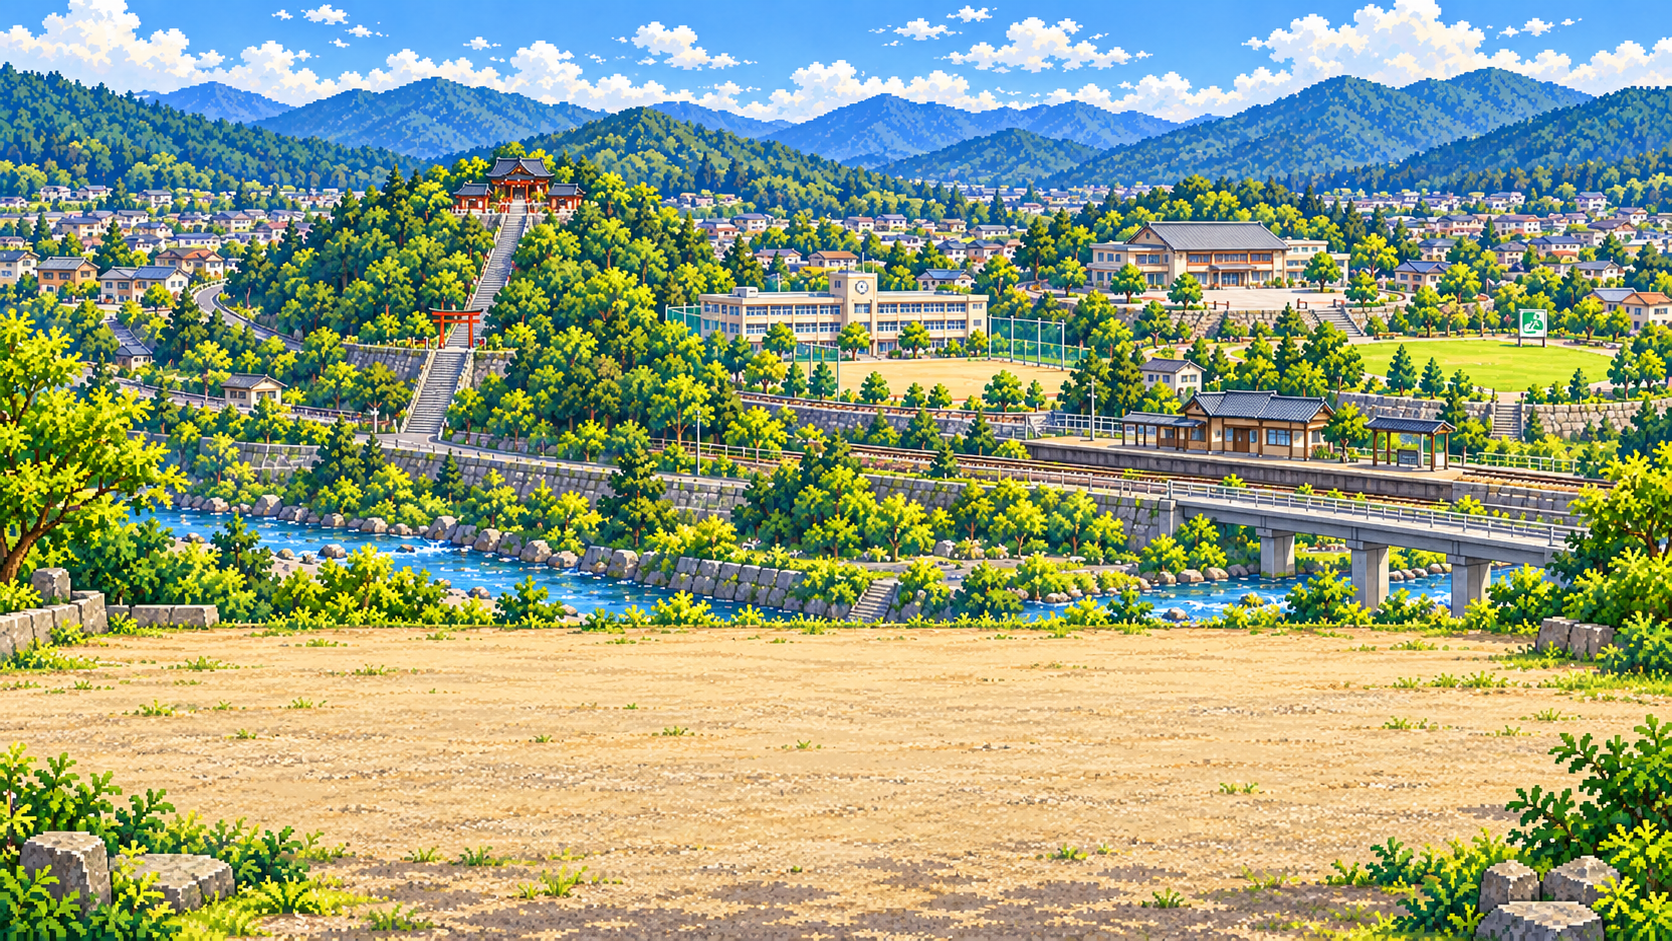
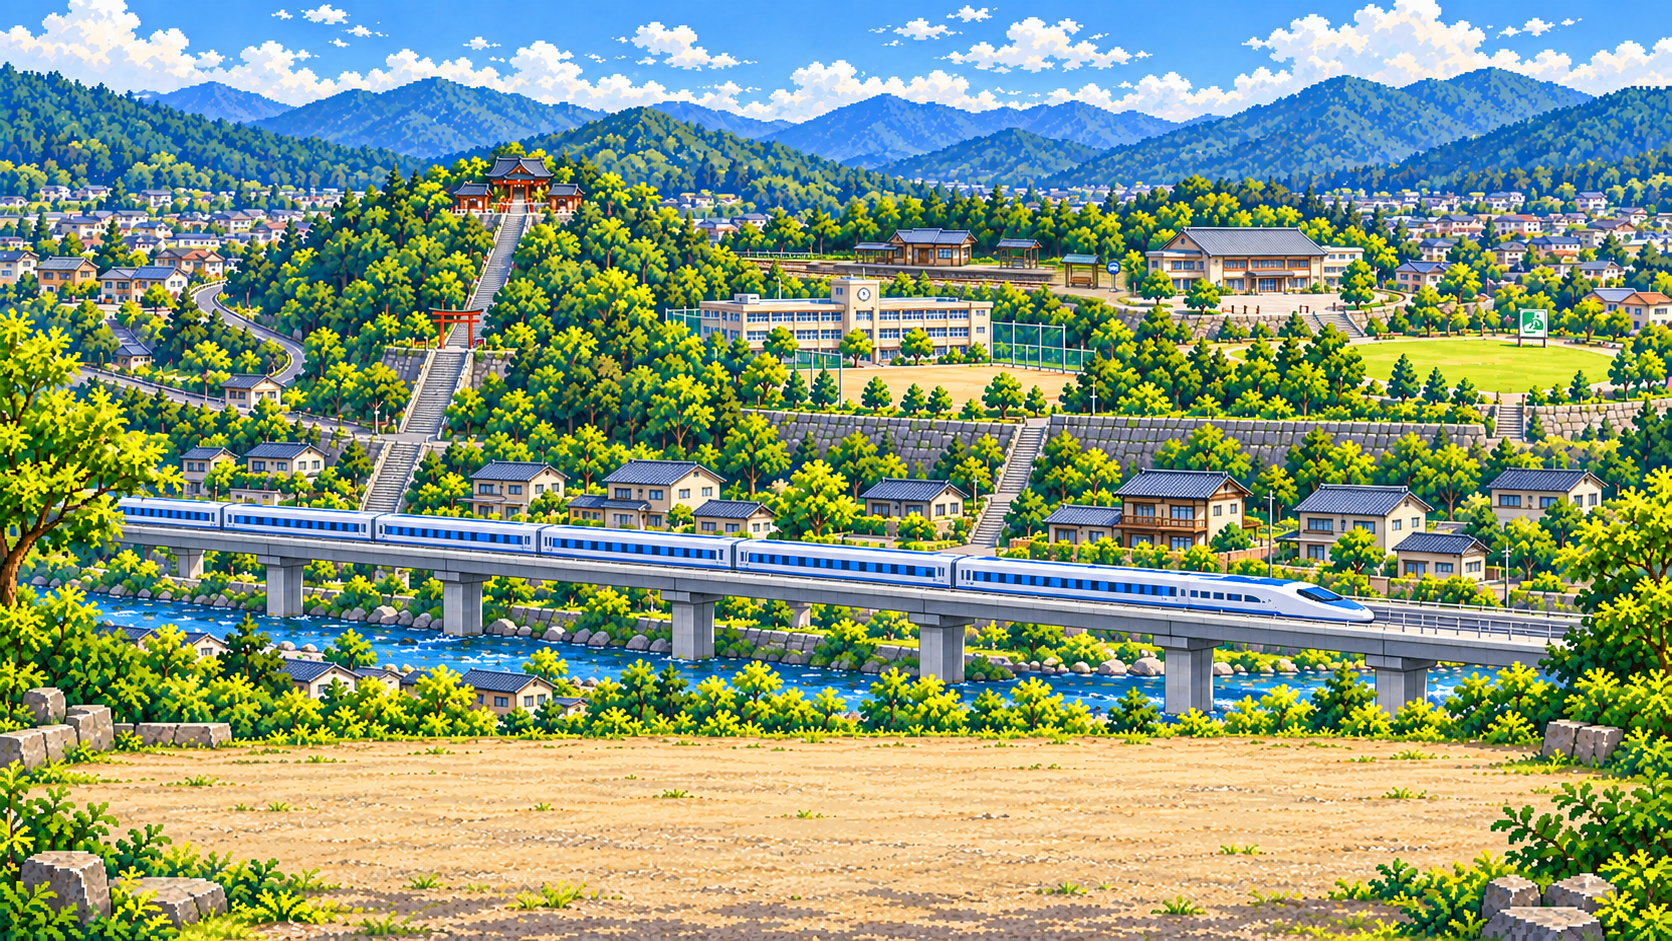
feat: replace the kamisato erabu 05 picture with the maglev scene for ticket 028
The new picture shows the maglev viaduct in front and the station and
bus stop behind the school. Move the family, house and cars onto the
smaller plaza, re-place the priority marks, and note under the picture
that the maglev is still under construction.

diff --git a/src/lib/illust/assets.ts b/src/lib/illust/assets.ts
@@ -57,7 +57,7 @@ export const ILLUST_PICTURES = {
     width: 1412,
     height: 941,
     widths: [768, 1152, 1412],
-    alt: "上郷の高台の広場から見た、学校・駅・川と山の風景",
+    alt: "上郷の高台の広場から見た、手前を走るリニアの高架と、奥の学校・駅・バス停、川と山の風景",
   },
   // 中心市街地の 05 の背景（2026-11-02 受け取り）。上郷と同じ 16:9 なので同じように切り出す。駅が切れないよう、左を落とす
   "erabu-chushin-priorities": {
@@ -388,6 +388,12 @@ export const ILLUST_PICTURES = {
 } as const;
 
 export type IllustPictureId = keyof typeof ILLUST_PICTURES;
+
+// 絵に描いたもので、今の町のようすと違うものの断り書き。絵の下の端に小さく出す。
+// リニア中央新幹線の長野県駅（仮称）は上郷にできる予定だが、まだ工事中（2026-11-07 まさゆきさん：絵の下に小さく明記）
+export const PICTURE_NOTES: Partial<Record<IllustPictureId, string>> = {
+  "erabu-kamisato-priorities": "※リニアはまだ工事中です。開業は2034年以降の見込みです。",
+};
 
 // 家族の人物（4地区で使い回す）。大人1人目はお母さん、2人目はお父さん。子ども1人目は赤い服の男の子、2人目はおさげの女の子
 // （2026-10-29 まさゆきさん決定）、3人目は青い服の男の子（boy2）、4人目は紫の服の女の子（girl2）（2026-10-31 まさゆきさん）。stand は立つ、joy は出てきたときのよろこぶポーズ、back は右奥を向いた斜め後ろ姿（05 で町を見わたす。2026-10-30 まさゆきさん）。

diff --git a/src/components/illust/PreviewFrame.tsx b/src/components/illust/PreviewFrame.tsx
@@ -1,10 +1,11 @@
 import type { ReactNode } from "react";
-import type { IllustPictureId } from "@/lib/illust/assets";
+import { PICTURE_NOTES, type IllustPictureId } from "@/lib/illust/assets";
 import { IllustPicture } from "./IllustPicture";
 
 // えらぶの「わが家のプレビュー」の枠（028 見本）。背景の絵（3:2）の上に、家族や地区の札を重ねる。
 // 絵の縦横の比で先に場所を取っておき、読み込みで下の部品がずれないようにする
 export function PreviewFrame({ background, label, children }: { background: IllustPictureId; label: string; children?: ReactNode }) {
+  const note = PICTURE_NOTES[background];
   return (
     <figure role="group" aria-label={label} className="relative isolate aspect-[3/2] overflow-hidden rounded-card bg-pixel-sky shadow-card">
       <IllustPicture picture={background} sizes="(min-width: 1280px) 1200px, (min-width: 1024px) 100vw, (min-width: 640px) 576px, 100vw" decorative priority className="absolute inset-0 size-full object-cover" />
@@ -15,6 +16,12 @@ export function PreviewFrame({ background, label, children }: { background: Illu
         わが家のプレビュー
       </span>
       {children}
+      {/* 絵の断り書き。家族や車より手前（z-20）に、下の端の右に小さく出す。枠の高さを変えないよう、絵の上に重ねる */}
+      {note && (
+        <figcaption className="absolute bottom-1 right-1 z-20 rounded bg-surface/85 px-1.5 py-0.5 text-[10px] leading-tight text-ink sm:bottom-2 sm:right-2 sm:text-xs">
+          {note}
+        </figcaption>
+      )}
     </figure>
   );
 }

diff --git a/src/lib/illust/family.ts b/src/lib/illust/family.ts
@@ -46,9 +46,10 @@ const STAGES: Record<FamilyStageId, { footY: number; adultHeight: number; center
   "erabu-kanae-base": { footY: 97.5, adultHeight: 32, centerX: 45 },
   // 伊賀良は上郷と同じ構図なので、立ち位置も同じ
   "erabu-igara-base": { footY: 94, adultHeight: 32, centerX: 50 },
-  // 05 の背景。05 の主役は町（印）なので、家族は広場のいちばん奥（川べりの手前）に小さめに立たせる
-  // （2026-10-30 まさゆきさん：キャラを小さく、いちばん奥まで）
-  "erabu-kamisato-priorities": { footY: 70, adultHeight: 20, centerX: 50 },
+  // 05 の背景。05 の主役は町（印）なので、家族は広場のいちばん奥に小さめに立たせる
+  // （2026-10-30 まさゆきさん：キャラを小さく、いちばん奥まで）。2026-11-07 にリニアの高架を描いた絵に差しかえ、
+  // 広場の奥の端が高さ 78% まで下がったので、高架の上に立って見えないよう広場の中へ下げた
+  "erabu-kamisato-priorities": { footY: 85, adultHeight: 20, centerX: 50 },
   // 広場の奥の端が上郷より下にあるので、そのぶん下げる（家・車も同じ）
   "erabu-chushin-priorities": { footY: 78, adultHeight: 20, centerX: 50 },
   // 家と車を左の砂利に置くので右に寄せ、バス停を隠さないよう手前に立たせる（頭がバスの下の高さ）。

diff --git a/src/lib/illust/priorities.ts b/src/lib/illust/priorities.ts
@@ -8,12 +8,13 @@ import { placeHouse } from "./house.ts";
 // 見本で場所が分かるのは住まい・子育て・学校だけで、交通・防災・人口は Claude の案（2026-10-29。まさゆきさんが見て直す）
 type Spot = { x: number; y: number };
 const SPOTS: Record<ErabuBaseId, Record<Exclude<Priority, "housing">, Spot>> = {
-  // 05 の背景：校庭のある学校・駅・広場の避難場所の標識・山すその家並み
+  // 05 の背景（2026-11-07 差しかえ）：真ん中の時計の校舎・その奥の駅とバス停・右奥の広場の避難場所の標識・手前右の家並み。
+  // 手前を走るリニアの高架には印をかけない
   "erabu-kamisato-priorities": {
-    childcare: { x: 44, y: 24 },
-    transport: { x: 73, y: 37 },
+    childcare: { x: 37, y: 31 },
+    transport: { x: 52, y: 19 },
     disaster: { x: 92, y: 30 },
-    population: { x: 60, y: 21 },
+    population: { x: 83, y: 46 },
   },
   // 05 の背景：左奥の校舎・右の駅・右奥の公園の避難場所の標識・奥の町並み
   "erabu-chushin-priorities": {

diff --git a/src/lib/illust/car.ts b/src/lib/illust/car.ts
@@ -20,7 +20,8 @@ const PARKING: Record<ErabuBaseId, { single: number; white: number; blue: number
   "erabu-igara-base": { single: 70, white: 70, blue: 84.5, footY: 89, width: 18 },
   // 05 の背景。見本どおり左の家の前に置く（家族と重ならないよう、2台目も家族の左に収める）。
   // 家族は奥に下げ、車は家の前の少し手前に置く（2026-10-30 まさゆきさん：キャラと車のバランス、車はもう少し手前で大きく）
-  "erabu-kamisato-priorities": { single: 26, white: 17, blue: 31.5, footY: 84, width: 16 },
+  // 2026-11-07 の差しかえで家と家族を手前に下げたので、車もそのぶん手前に置く
+  "erabu-kamisato-priorities": { single: 26, white: 17, blue: 31.5, footY: 90, width: 16 },
   "erabu-chushin-priorities": { single: 26, white: 17, blue: 31.5, footY: 89, width: 16 },
   // 左の塀と植え込みにかからないよう、砂利の上に収める（2026-11-03 まさゆきさん）
   "erabu-kanae-priorities": { single: 30, white: 22, blue: 34, footY: 90, width: 14 },

diff --git a/src/lib/illust/house.ts b/src/lib/illust/house.ts
@@ -15,7 +15,8 @@ const LOTS: Record<ErabuBaseId, { centerX: number; footY: number; width: number 
   // 伊賀良は上郷と同じ構図（手前に広い広場）なので、建てる場所も同じ
   "erabu-igara-base": { centerX: 60, footY: 82, width: 68 },
   // 05 の背景（町を見わたす）。町の学校・駅を隠さないよう、見本どおり左の端に寄せて小さめに建てる
-  "erabu-kamisato-priorities": { centerX: 12, footY: 74, width: 40 },
+  // 2026-11-07 の差しかえで広場が狭くなったので、土台を広場の上（奥の端 78%）まで下げた
+  "erabu-kamisato-priorities": { centerX: 12, footY: 81, width: 40 },
   "erabu-chushin-priorities": { centerX: 12, footY: 82, width: 40 },
   // 左の手前のブロック塀と植え込み（土台の高さで幅の 13% まで）にかからないよう、砂利の上に収める（2026-11-03 まさゆきさん）
   "erabu-kanae-priorities": { centerX: 31, footY: 86, width: 36 },

diff --git a/src/components/erabu/ErabuFlow.test.tsx b/src/components/erabu/ErabuFlow.test.tsx
@@ -224,6 +224,14 @@ describe("ErabuFlow：質問の進行", () => {
     expect(screen.getByRole("button", { name: "住まい" })).toHaveAttribute("aria-pressed", "false");
   });
 
+  it("上郷の 05 の絵は、描いたリニアがまだ工事中だと絵の下に断る（2026-11-07）。02〜04 の絵には出さない", async () => {
+    const note = "※リニアはまだ工事中です。開業は2034年以降の見込みです。";
+    await open("d=kamisato&a=2&k=1&h=new&c=1&q=priorities");
+    expect(screen.getByText(note)).toBeInTheDocument();
+    await open("d=kamisato&a=2&k=1&h=new&c=1&q=car");
+    expect(screen.queryByText(note)).not.toBeInTheDocument();
+  });
+
 });
 
 describe("ErabuFlow：選ぶたびの返事（要件 4章）", () => {

diff --git a/assets/illust/README.md b/assets/illust/README.md
@@ -24,7 +24,7 @@
 | `erabu-igara-base.png` | えらぶ 02〜04 のプレビュー（伊賀良） | 季節のない伊賀良の風景（1536×1024）。01 と同じ飯田IC の料金所・バス停・高架の道路・神社の山を、高台の土の広場から見下ろす。手前の広場（左右の端に石と木の柵）に家族などを重ねる。学校・駅・避難場所は描かれていない |
 | `erabu-kanae-priorities.png` | えらぶ 05 のプレビュー（鼎） | 鼎の広場からバス停と広い道路、左奥の時計の校舎、右奥の避難場所の標識を見わたす風景（1536×1024）。切り出しなし |
 | `erabu-igara-priorities.png` | えらぶ 05 のプレビュー（伊賀良） | 伊賀良の草地に囲まれた土の広場から、真ん中の時計の校舎と校庭・体育館、手前の高速バスと路線バスの乗り場、右の避難場所の標識、左の飯田IC、奥の町並みを見わたす風景（1536×1024）。切り出しなし。駅は描かれていない |
-| `erabu-kamisato-priorities.png` | えらぶ 05 のプレビュー | 上郷の高台から学校・駅・避難場所の標識を見わたす風景（1672×941）。プレビューの枠（3:2）に合わせて、左を 220px 落として切り出す |
+| `erabu-kamisato-priorities.png` | えらぶ 05 のプレビュー | 上郷の高台から見わたす風景（1672×941）。手前に川を渡るリニアの高架、真ん中に時計の校舎、その奥に駅とバス停、右奥に広場と避難場所の標識、手前右に家並み（2026-11-07 差しかえ）。リニアはまだ工事中なので、絵の下に断り書きを出す（`PICTURE_NOTES`）。プレビューの枠（3:2）に合わせて、左を 220px 落として切り出す |
 | `erabu-chushin-priorities.png` | えらぶ 05 のプレビュー（中心市街地） | 中心市街地の高台から学校・駅・避難場所の標識を見わたす風景（1672×941）。プレビューの枠（3:2）に合わせて、左を 230px 落として切り出す |
 | `kurashi-kamisato-spring-wide.png`・`kurashi-kamisato-spring-tall.png` | くらし・上郷・春の風景（PC・スマホ） | 人のいない上郷の春（1536×1024・1122×1402）。左上：山すその公園、左中央：学校と校庭、中央：体育館、右中央：公民館、右上：長い石段と神社、右下：駅・バス停、奥の谷に町並み。広場の奥に家族を重ね、場所にピンを置く |
 | `kurashi-kamisato-summer-wide.png`・`kurashi-kamisato-summer-tall.png` | くらし・上郷・夏の風景（PC・スマホ） | 人のいない上郷の夏（1536×1024・1122×1402）。春と同じ構図で、ピンの場所も同じ。避難場所のピンは真ん中の体育館 |

diff --git a/docs/028_illustrated-game-ui.md b/docs/028_illustrated-game-ui.md
@@ -1027,6 +1027,7 @@
 - **まだ確かめていないこと**：まさゆきさんのノートパソコンの実機での見え方
 - **車の「まだ決めない」をなくした**（2026-11-06 まさゆきさん決定）：カルテが変わるのは0台かどうかだけで、「まだ決めない」は1台と同じ車のある暮らしを見せていたため。車は必須の質問にし（要件 F-01 も改訂）、選ぶまで「次へ」を押せない。車がないまま大切なことを開くと車の質問に戻す。選んだ台数をもう一度押しても外さない。上の PC の右の列の「4つ目に『まだ決めない』」もなくなった。`c` のない古い URL のカルテ・くらしは、今までどおり未選択として扱う
 - **バス停の地図へのリンクはスマホも文字だけに**（2026-11-06 まさゆきさん）：「バス停を地図で見る ›」を PC と同じ形にし、カード（`BusStopMapLink`）は消した。カードに使っていた小物の絵 `station-wide` は、今はどこでも使っていない（絵は残してある）
+- **上郷の 05 の絵を差しかえた**（2026-11-07 まさゆきさん）：手前に川を渡るリニアの高架、奥の真ん中に駅とバス停を描いた絵。広場が狭くなった（奥の端が高さ 78%）ので、家族（足もと 70%→85%）・家（土台 74%→81%）・車（90%）を手前に下げ、印を置き直した（子育て・学校は時計の校舎、交通は駅とバス停の上、人口は手前右の家並み、防災はそのまま）。リニアはまだ工事中なので、絵の右下に「※リニアはまだ工事中です。開業は2034年以降の見込みです。」を小さく出す（`PICTURE_NOTES`・`PreviewFrame`。まさゆきさん決定）
 - **次にやること**：地図 → 023 → 025。地区くらべは 029 で作り直して完了済み（2026-11-06）。始める前にまさゆきさんに聞く
 
 ## 完了条件
